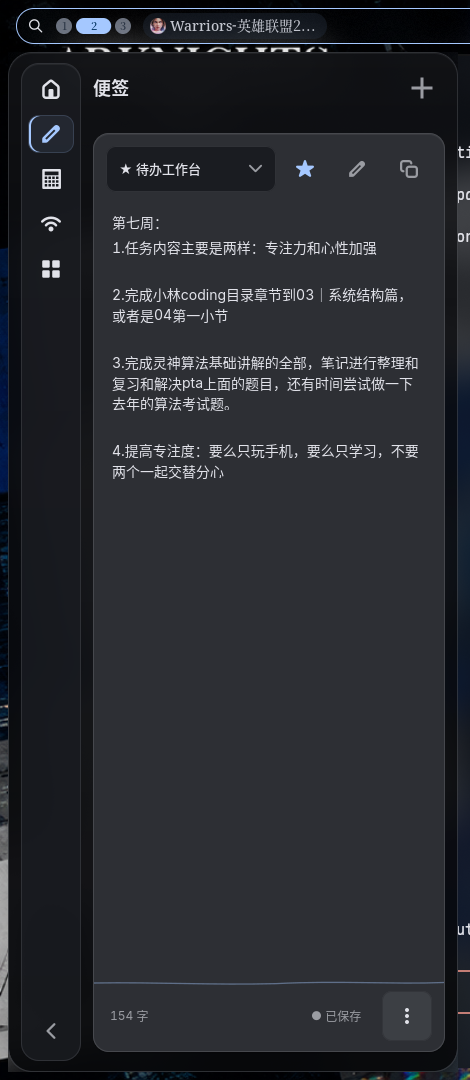
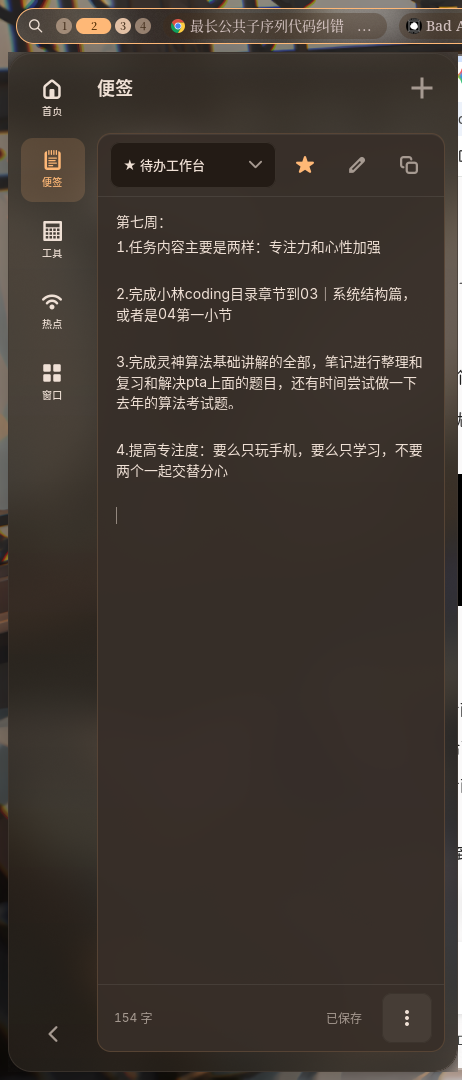
docs(tide-sidebar): 预览图与文档同步到 macOS 分组列表版
- 五页预览按 462×1080 重拍（含 8px 壁纸留边与投影），替换旧的平色截图。
- README：视觉基准、导航（64px 图标+小字）、首页结构（hero + 三组）、
  玻璃参数（0.72 / 11% 前景 / 分组 8.5%）、动效段落全部重写；
  “减少装饰动效”设置说明从“停波浪”改为“停入场动画”。
- reference-redesign：视觉基准改为 macOS 毛玻璃分组列表；本轮决策章节
  重写（材质/结构/颜色/排印/动效/回归）；删除潮汐、波浪、`stopBreathe`
  等已退役描述。
- translations 的 motion 说明同步（en/zh-Hans）。

diff --git a/payload/home/noctalia-plugins/tide-sidebar/docs/reference-redesign.md b/payload/home/noctalia-plugins/tide-sidebar/docs/reference-redesign.md
@@ -2,13 +2,13 @@
 
 ## 视觉基准
 
-当前视觉基准是 2026-11 的**壁纸玻璃**一版：五页实机图在 [previews/](<../previews/>)（470×1080，含 8px 壁纸留边与投影）。2026-10-31 的[平色合成图](<../design/reference-flat-proof.png>)仅作为历史参考。
+当前视觉基准是 2026-11 的 **macOS 毛玻璃分组列表**：五页实机图在 [previews/](<../previews/>)（462×1080，含 8px 壁纸留边与投影）。2026-10-31 的[平色合成图](<../design/reference-flat-proof.png>)仅作为历史参考。
 
-- 悬浮玻璃卡：左/上/下 8px 留边、四角 24px、双层环境阴影、1px 内高光；niri 对该 namespace 开 `xray blur noise 0.015 saturation 1.08`。
-- 表面阶梯：深色烟玻璃外壳 → 磨砂卡片 → 更亮的行/控件；便签编辑区与计算器显示区单独提不透明度保可读。
-- 排印先行：Inter + `cv01/ss03/tnum`，微标签 11/600/+0.05em，正文 13，卡题 15/600，页题 18/600，时钟 46/600/-0.02em。
-- 强调色=状态，不是装饰：静态数据全中性，只有 Top1 任务与 >70% 的核点回强调色；每页一个主角。
-- 导轨 48px 纯图标（20px），选中态 = 32×32 ghost + 2px 左缘指示条；页面标题承担"我在哪"。
+- 悬浮烟玻璃：左/上/下 8px 留边、四角 24px、双层环境阴影、1px 内高光；外壳 0.72 不透明度、底色混 11% 前景色，niri 对该 namespace 开 `xray blur noise 0.015 saturation 1.08`。
+- 分组语法：面板 → 分组板（白色 8.5%）→ 行（1px 发丝线）；凹凸感只在分组这一层，行不做独立卡片。
+- 排印：Inter + `cv01/ss03/tnum`，微标签 11/600/+0.05em，正文 13，分组标题 16/600，页题 18/600，时钟 52–54/600/-0.03em。
+- 强调色=状态：选中态、主按钮、危险/警告、置顶星标；静态数据全中性，只有 Top1 任务与 >70% 的核点回强调色。
+- 导轨 64px「图标 + 10px 小字」，选中是淡紫药丸；所有 `●` 文字圆点已删除，电池用 `battery-good-symbolic`。
 - 只保留功能文字，不恢复品牌大标题或口号。
 
 ## 已确立的实现边界
@@ -16,7 +16,7 @@
 - GTK4 原生前端负责显示；原 Noctalia 服务仍是便签/倒计时数据唯一写入者。
 - 现有 notes/timer 的双存档格式未迁移；私有目录维持 0700。
 - 输入法、选择、撤销由真实 Gtk.TextView / Gtk.Entry 处理，不用隐藏输入或截图冒充编辑器。
-- 控件只建立一次，变化时更新对应属性；小波浪绘制区域只在明确交互后短时刷新，静止不持续 tick。
+- 控件只建立一次，变化时更新对应属性；sparkline/进度条只在数据变化时 `queue_draw`，静止不持续 tick；首页入场动画只在 show 后跑 720ms，隐藏即注销。
 - runStream 在本机 API32 只收安全引用后的命令字符串，并有 64 KiB 行限制。大便签走有界分片，完整重组后才交给模型。
 - [GTK4 Layer Shell 官方加载说明](https://github.com/wmww/gtk4-layer-shell/blob/main/linking.md)要求库先于 libwayland 载入；仅此 GJS 进程设置 LD_PRELOAD，并在进程内清除该环境变量以免传播到辅助进程。不改全局环境或 Shell 二进制。
 
@@ -30,27 +30,27 @@
 
 切换后预热 6 秒观测（cairo 历史采样）：Noctalia 0.83% + 原生前端 0.17%，合计约单核 1.00%；收起 0.83% + 0.00%，合计约 0.83%。当前恢复会话默认 GL 以保住 144fps 切页，前端 RSS 约 207–216 MiB；此前的 98–115 MiB 是 cairo 路径，切页只有 48–72fps。图标固定 Adwaita、页面按需构建仍然保留。四页截图逐像素比对：面板主体 0.000% 差异（文字抗锯齿与光标/正文变化不计），观感一致。见[观测记录](<performance-observation.json>)。旧采样包含开场动画，新采样在 1.1 秒预热后开始，不能据此宣称严格降低了 50% 或给出 FPS；离屏构造测试也不替代真实流畅度验收。
 
-## 2026-11 玻璃与排印二次打磨（本轮决策）
+## 2026-11 macOS 毛玻璃分组列表（本轮决策）
 
-- **材质**：niri 已支持 layer-shell 模糊，顶栏/launcher 早已开启，侧栏此前是唯一不透明面板。新增 `noctalia-tide-sidebar` 的 layer-rule；透明度由 `palette.js` 决定（外壳 0.93 / 卡片 0.97 / 导轨 0.80 / 阅读面 0.975），而非写死在 CSS。检测不到 `NIRI_SOCKET` 时自动升到 0.97/0.99/0.94/1.0。
-- **为什么不更透**：面板的大部分面积被卡片占据，能看见玻璃的只有缝隙和短页面的空白区。0.72–0.80 的全玻璃会把壁纸的暗部糊成"污渍"；0.93 的烟玻璃只保留色相与噪点，短页面（窗口页）不再出现大片模糊斑点，同时保留"浮起来"的边缘与投影。
-- **排印**：`inter-font`（[extra]，已加入 `manifests/packages.tsv` 与安装器预检）＋ `cv01/ss03/tnum`；中文回落 Noto Sans CJK SC。字阶从 4 档扩到 5 档并引入 11px 微标签，卡片标题 15/600。
-- **数据图形**：16 核从"等宽方块条"改成 16 根 2px 竖条（高度 8–18px，>70% 点亮 accent）；sparkline 1.2px + 5% 面积填充；任务条只有 Top1 保留 accent。
-- **动效**：抽屉曲线改 cubic-bezier；卡片入场改为 opacity + 6px 上移（220–280ms、30ms 交错）；按钮按下 `scale(.985)`；其余交互保持 120ms 级别。
-- **回归**：`run_all.py` 的抽屉契约改为"8px 悬浮 + 终点留 1px + drawer-parked"，并保留 620/560 与 7ms 步进断言；`check_palette_tokens` 要求 style.css 零硬编码色且 `@t_*` 与 palette.js 双向一一对应。
+- **材质**：面板从近黑改成中性灰烟玻璃——外壳 0.72、底色混 11% 前景色、顶部 1.2% 柔光、底部轻压暗；分组板是白色 8.5%、1px 内高光；行只有发丝线。检测不到 `NIRI_SOCKET` 时外壳退回 0.97 近不透明。
+- **为什么不是更透**：再透一档（0.5–0.6）在深色壁纸下会把面板压成一团糊斑，正文也开始浮；0.72 能看出壁纸的色与光，同时保持读字。
+- **结构**：首页 = hero + 系统/进程/工作台三组；便签 = 一张分组板（选择器行 + 编辑器 + 状态行）；工具 = 计算器/倒计时/秒表三张分组板；热点 = 状态/设置/已保存密码；窗口 = 搜索 + 工作区 + 列表，列表合并成一张板。
+- **颜色**：模块色只出现在工作台图标与选中态；所有 `●` 圆点删除；电池改用符号图标；危险动作用红色文字而不是红底。
+- **排印**：`inter-font`（[extra]，已进 `manifests/packages.tsv` 与安装器预检）+ `cv01/ss03/tnum`，中文回落 Noto Sans CJK SC。
+- **动效**：抽屉 `cubic-bezier(.32,.72,0,1)`；首页每次打开播入场（hero 560ms、行 45ms 递延、曲线 720ms 自左向右画、条/核从 0 长出）；其余四页 440ms 卡片上浮 + 45ms 递延，工具键帽再做 1–8 级微递延；切页叠加 260ms 淡入。
+- **回归**：抽屉契约“8px 悬浮 + 终点留 1px + drawer-parked”；导轨契约 64px 带文字；`page-in` 必须在离开页面时摘除、下一帧再挂上，否则第二次进入不会重播（已修复并验证）；`check_palette_tokens` 要求 style.css 零硬编码色且 `@t_*` 与 palette.js 双向一一对应。
 
 ## 动效
 
-- 一套时长语汇：交互 120ms（悬停/按下/选中）、展开 160ms（提示条、重命名、撤销、确认卡、面板淡入淡出）、切页 220ms、toast 180ms、波浪 320ms；CSS 过渡与 GTK Revealer 使用同一组值。
+- 一套时长语汇：交互 120ms（悬停/按下/选中）、展开 160ms（提示条、重命名、撤销、确认卡、面板淡入淡出）、切页 220ms、toast 180ms；CSS 过渡与 GTK Revealer 使用同一组值。
 - 切页方向跟随导航顺序（rail 或 Ctrl+1–4）：启动时按 `pageNames` 顺序给每页建永久 host，内容仍按需构建，因此 Stack 子页顺序不会随首次访问而改变；向后从右侧滑入，向前反向滑出。隐藏状态下切页时长 0，不会在下次打开时补放动画。
 - 面板是悬浮玻璃卡：左/上/下 8px 留边、四角 24px，`620ms` 伸展 / `560ms` 收回，曲线 `cubic-bezier(.32,.72,0,1)`（快出慢收）。动画用 7ms 步进（匹配本机 144Hz 输出）逐帧改 layer surface 的左 margin，由合成器平移已经绘制好的缓冲，不重排内容、不重新栅格化文字和阴影，所以运动过程中不会发虚或抖字；每步耗时按实际间隔累加但有上限，冷启动主循环卡顿时动画会暂停而不是直接跳到终点。展开不等首帧回调，surface 常驻合成，第一帧就能看到位移；收起后 surface 只留 1px 在屏幕内，并给窗口加 `drawer-parked` 把外壳画成完全透明（否则会在屏幕左缘留一条深色竖线）；合成器因此持续持有已绘制的缓冲，下一次打开第一帧就能看到位移；同时关闭输入命中（`can_target=false`）。
 - toast 信息停留 3.6s、错误 6s 后滑出。
 - 列表入场：便签弹层与窗口列表在打开时逐行淡入（170ms、18ms 步进、最多 7 行），只在打开时播一次，定时刷新不重播。
 - 交互层次：玻璃按钮悬停有 1px 投影、按下有内阴影；窗口行/便签行/系统卡片的底色和描边有 120–160ms 过渡。
-- 计时器开始与完成时波浪短促脉冲一次（320ms），失败/暂停不脉冲。
-- 尝试后否决：整页淡入会让滑动时透出旧页（软件光栅下显脏）；该 GTK 版本的 CSS keyframes 对 `box-shadow`/`background-color` 不生效（只有 `opacity` 可靠），所以完成脉冲没有用关键帧，而是保留波浪反馈。
+- 尝试后否决：整页淡入会让滑动时透出旧页（软件光栅下显脏）；该 GTK 版本的 CSS keyframes 对 `box-shadow`/`background-color` 不生效（只有 `opacity` 可靠），所以入场效果只用 opacity + transform。
 
-- 减少动效（插件设置或 `motion off`）：窗口加 `.reduced-motion`，CSS 过渡/动画归零、所有 Revealer 时长 0、波浪停止脉冲。逐帧对比：切页/开合前后帧像素差 0.2–4 px（编码噪声），可视为完全静止。
+- 减少动效（插件设置或 `motion off`）：窗口加 `.reduced-motion`，CSS 过渡/动画归零、所有 Revealer 时长 0、首页入场不跑。逐帧对比：切页/开合前后帧像素差 0.2–4 px（编码噪声），可视为完全静止。
 - 录屏证据：`~/Pictures/tide-sidebar/motion/panel-motion.gif`（正常开合与切页）、`page-switch-forward.png` / `page-switch-backward.png`（双向 220ms 滑动逐帧）、`panel-drawer-frames.png`（抽屉过程实机帧）、`reduced-motion-frames.png`（同样动作下的静止帧）。
 
 ## 可达性与键盘
@@ -64,7 +64,7 @@
 
 - Super+Shift+W 在 2026-10-15 14:0x 曾由用户用实体键盘确认可以开关（当时没有把不可靠的虚拟键盘结果当作通过）。**但 14:39 一次 `arch-noctalia` 部署覆盖了 `binds.kdl`，该绑定被删除、插件同时被停用，已补回并通过 `niri validate`。** 之后复查确认：wtype 注入的按键不经过 niri 快捷键处理，脚本无法验证这条绑定，只能人工确认。
 - 按用户确认关闭“减少动效”，恢复完整原生过渡；移除了容易误触的侧栏减动效按钮。
-- 实际 450×1020 侧栏中，收起列表后的正文视口从顶部164到941，高777；底部剩余为波浪/操作区及正常边距，没有旧版底部大片空白。修复了隐藏列表中 ScrolledWindow 传递 vexpand 导致的顶部空占位。
+- 实际 450×1020 侧栏中，收起列表后的正文视口从顶部164到941，高777；底部剩余为操作区与正常边距，没有旧版底部大片空白。修复了隐藏列表中 ScrolledWindow 传递 vexpand 导致的顶部空占位。
 - 右侧运算列固定58px，其余横向空间仅给数字区，和确认样张一致。
 - 最后一轮只显示/隐藏工具页验收前后，便签双存档哈希一致；计时状态和完成时间一致。使用期间用户数据已有正常变化，因此没有按早期快照回滚便签或重置计时。
 - [工具页实机图（含秒表）](<../previews/tools.png>)、[便签页](<../previews/notes.png>)、[热点页](<../previews/hotspot.png>)、[首页](<../previews/home.png>)、[窗口页](<../previews/windows.png>)均为当前真实状态，不为截图重置计时器。早期版本的截图已移出到 `.backups/legacy-previews/`。
